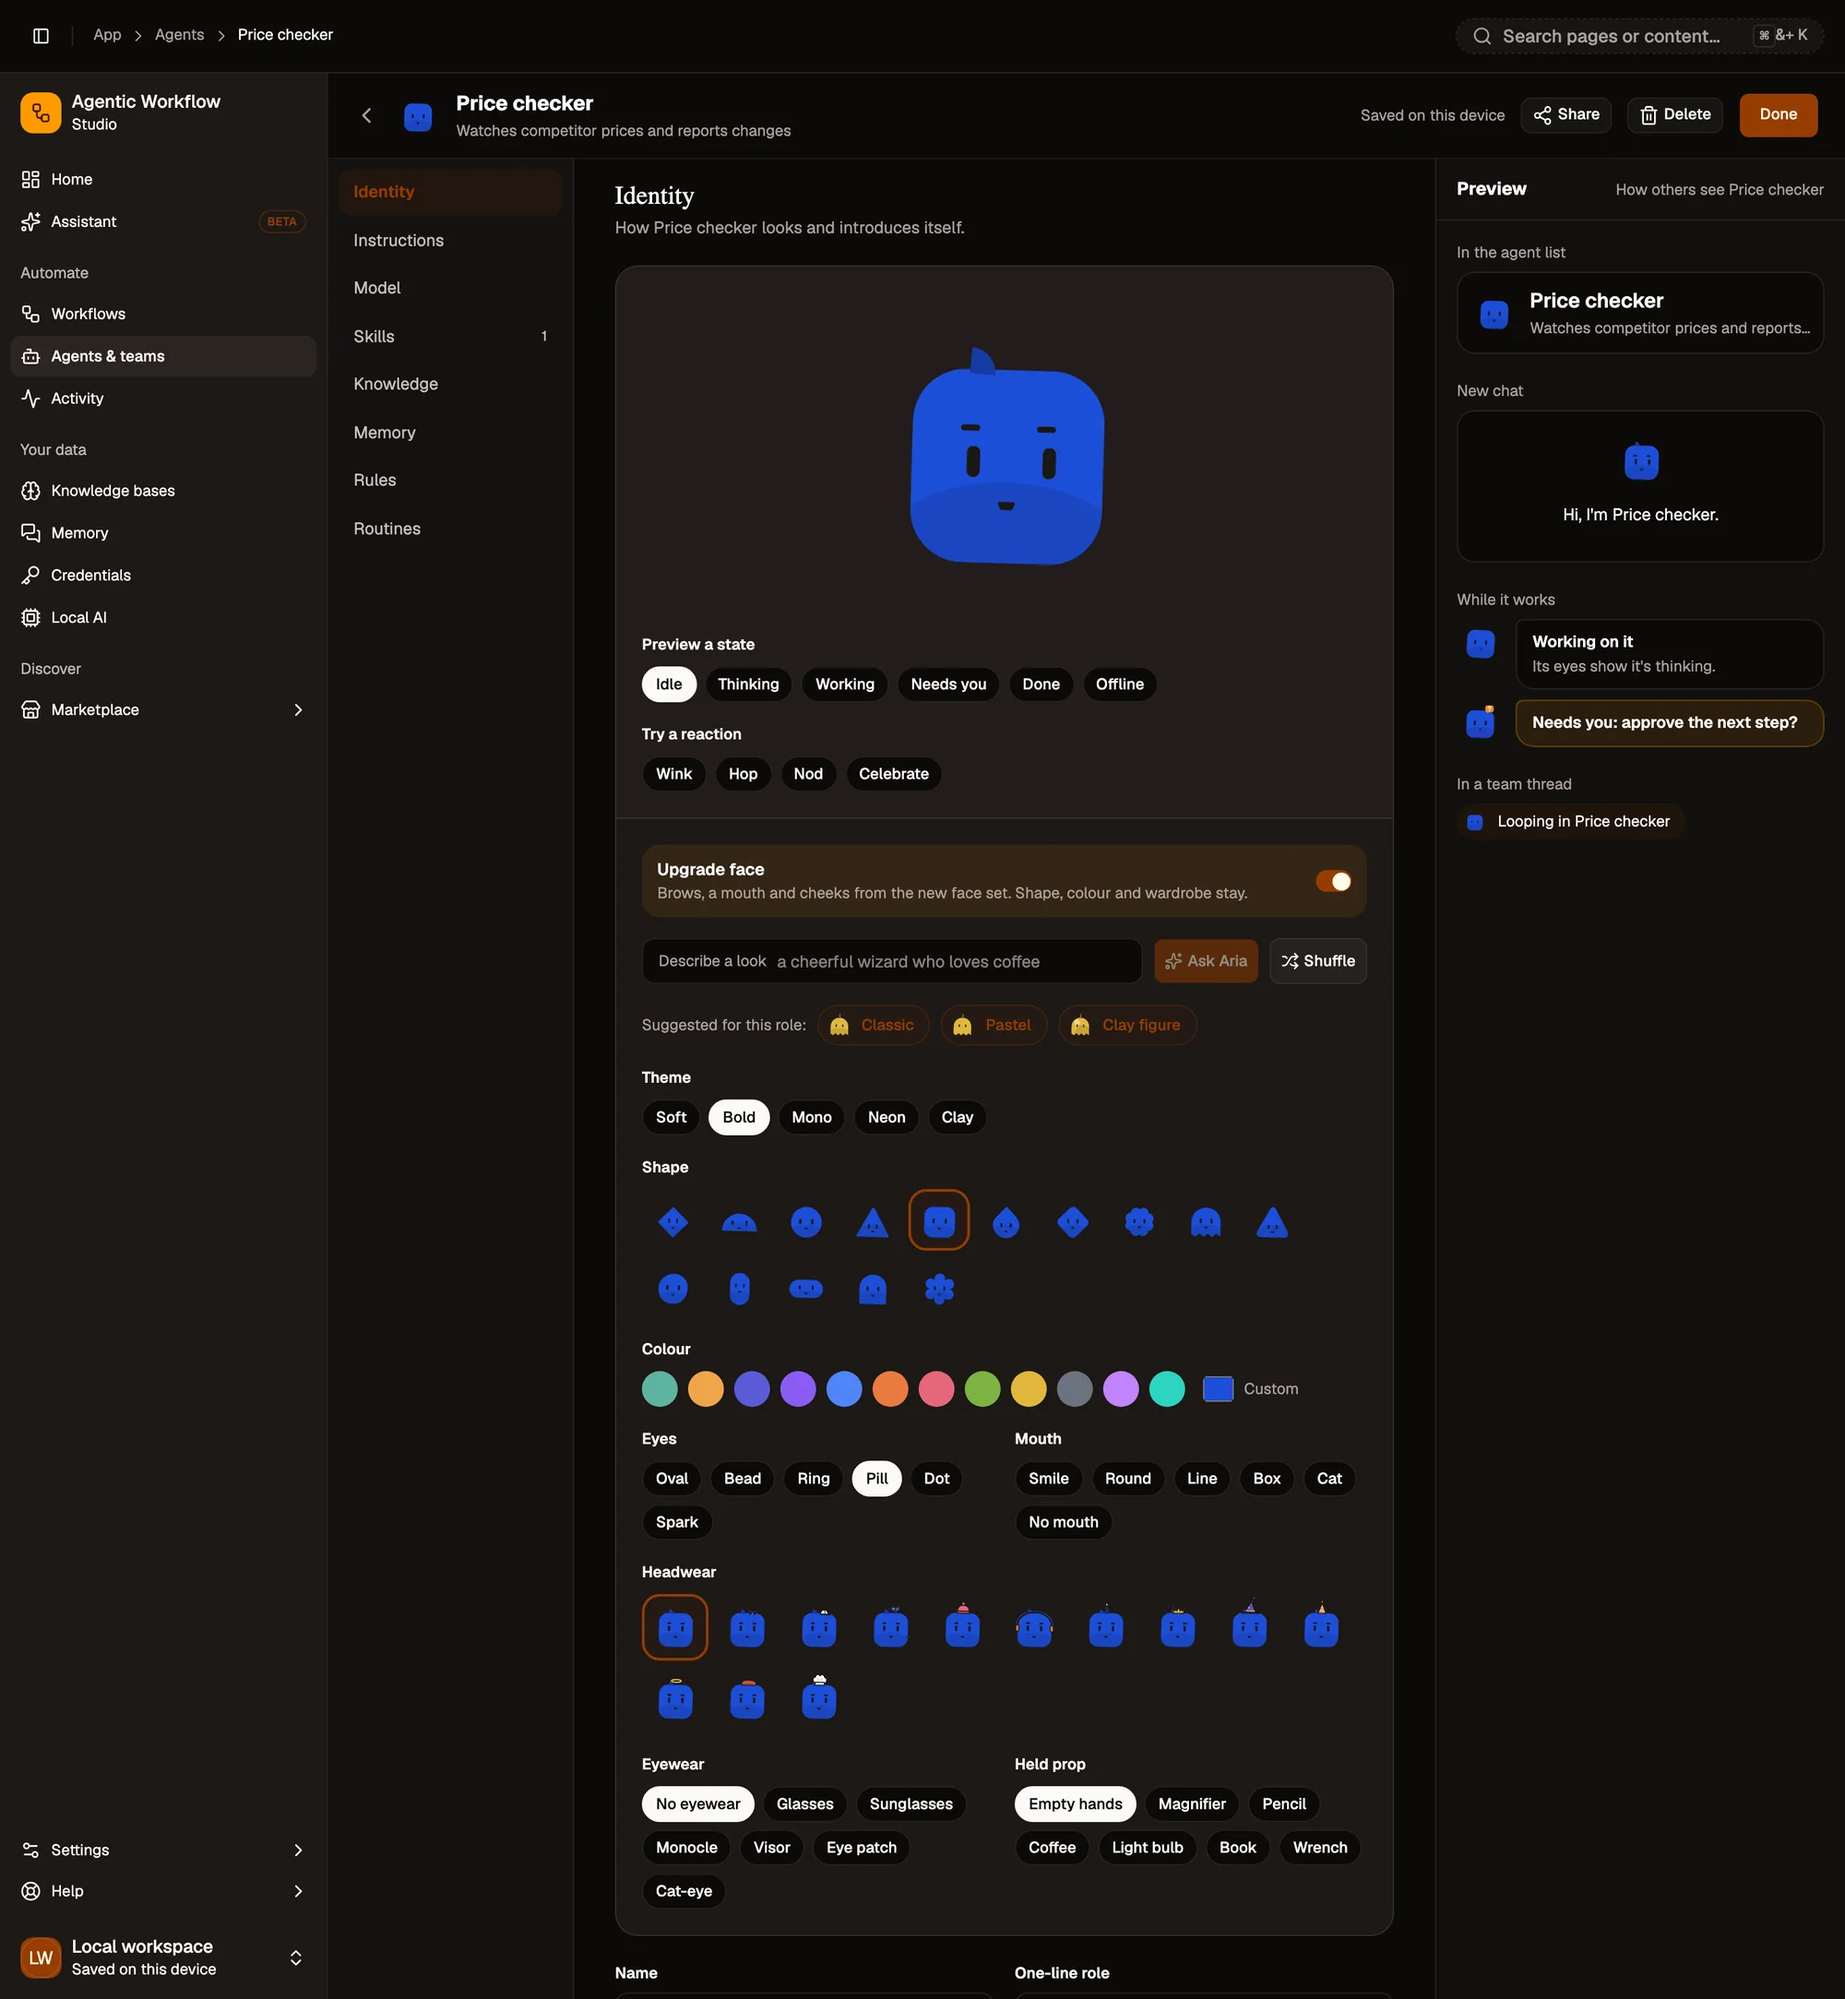
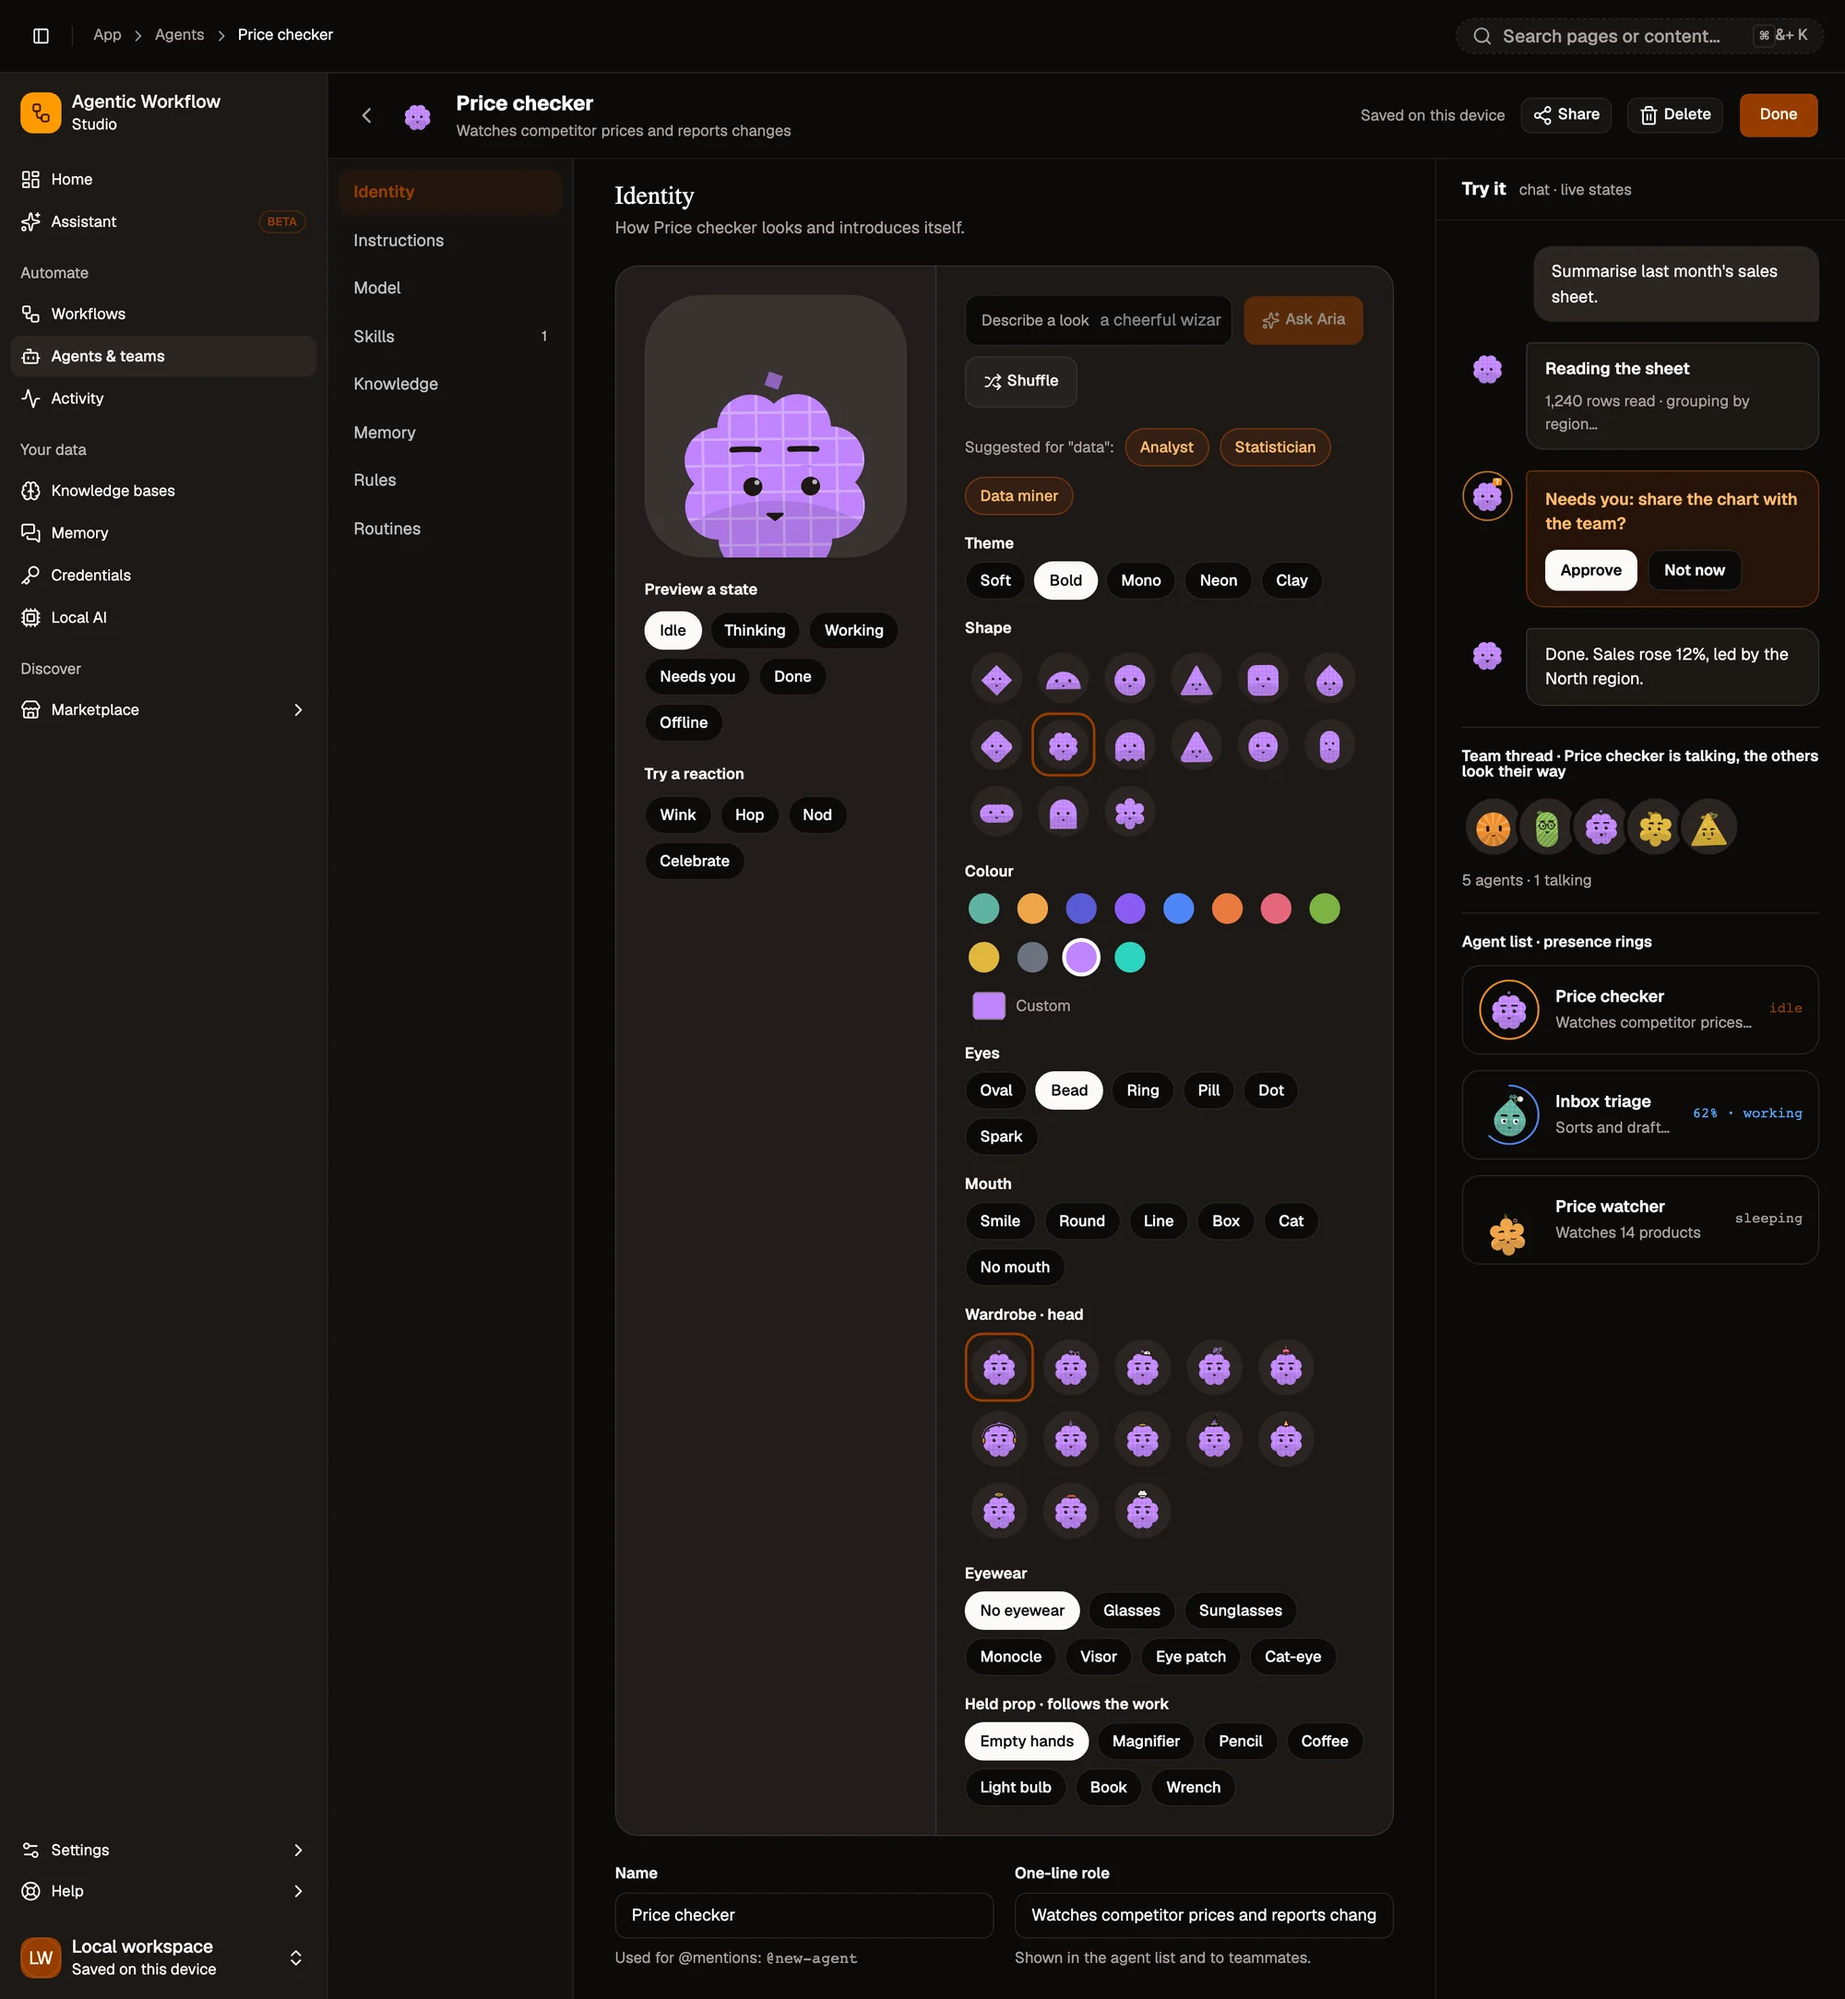
docs(agents): update look studio docs and screenshots for the Identity redesign

diff --git a/scripts/capture/shots/ai.ts b/scripts/capture/shots/ai.ts
@@ -49,7 +49,9 @@ async function agentBuilder(s: Session, tab: string) {
 		await p.waitForTimeout(800);
 		await name.fill('Price checker');
 		await name.press('Tab');
-		await p.getByText(/Hi, I.m Price checker/).filter({ visible: true }).first().waitFor({ timeout: T });
+		// The name shows in the header and the Try it rail's chat/list once saved.
+		await p.getByText('Price checker', { exact: true }).filter({ visible: true }).first().waitFor({ timeout: T });
+		await p.waitForTimeout(500);
 		const role = p.getByRole('textbox', { name: /^One-line role/ });
 		await role.fill('Watches competitor prices and reports changes');
 		await role.press('Tab');
@@ -566,7 +568,7 @@ export const shots: ShotDef[] = [
 		name: 'agent-identity',
 		page: 'app/chat-and-agents/agent-builder',
 		route: '#/app/agents/<id>',
-		alt: "The Identity tab of the agent builder for a new agent, Price checker: the end of the look studio (headwear, eyewear and held prop) above the Name, One-line role, Greeting and Conversation starters fields, with the builder tabs on the left and a preview of the agent in the list, a new chat and a team thread on the right.",
+		alt: "The Identity tab of the agent builder for a new agent, Price checker: the end of the look studio (headwear, eyewear and held prop) above the Name, One-line role, Greeting and Conversation starters fields, with the builder tabs on the left and the Try it rail on the right.",
 		note: 'The agent is created with Blank agent during capture and stays in the session.',
 		spots: [
 			{ id: 'tabs', label: 'Builder tabs', locator: btn(/^Identity/) },
@@ -585,22 +587,24 @@ export const shots: ShotDef[] = [
 		name: 'agent-look',
 		page: 'app/chat-and-agents/agent-builder',
 		route: '#/app/agents/<id>',
-		alt: 'The look studio at the top of the Identity tab for Price checker, a blue square character. On the left, the large preview with Preview a state chips (Idle, Thinking, Working, Needs you, Done, Offline) and Try a reaction buttons (Wink, Hop, Nod, Celebrate). On the right, the Upgrade face switch (on), Describe a look with Ask Aria and Shuffle, looks suggested for the role (Classic, Pastel, Clay figure), then Theme, Shape, Colour, Eyes, Mouth, Headwear, Eyewear and Held prop pickers.',
-		note: 'The look studio at the top of the Identity tab, for the Price checker agent made with Blank agent. A taller viewport fits the whole studio.',
+		alt: 'The Identity tab of the agent builder for Price checker, a blue square character. In the middle, the look studio: on the left a sticky preview with Preview a state chips (Idle, Thinking, Working, Needs you, Done, Offline) and Try a reaction buttons (Wink, Hop, Nod, Celebrate); on the right Describe a look with Ask Aria and Shuffle, role-named suggested looks, then Theme, Shape, Colour, Eyes, Mouth, Wardrobe · head, Eyewear and Held prop · follows the work pickers. In the right rail, Try it · chat · live states shows an example chat with the agent working, needing you and done, a team thread where the others look at the talking agent, and the agent list with presence rings.',
+		note: 'The Identity tab for the Price checker agent made with Blank agent: look studio plus the Try it rail. A taller viewport fits the whole studio. The Upgrade face switch only shows for agents made before the new faces, so it is not in this shot.',
 		viewport: { width: 1440, height: 1560 },
 		spots: [
-			{ id: 'upgrade-face', label: 'Upgrade face', locator: (p) => p.getByRole('switch', { name: 'Upgrade face' }) },
 			{ id: 'preview', label: 'Preview a state', locator: (p) => p.getByRole('radiogroup', { name: 'Preview a state' }) },
 			{ id: 'reactions', label: 'Try a reaction', locator: btn('Wink', true) },
 			{ id: 'describe', label: 'Describe a look', locator: (p) => p.getByRole('textbox', { name: /Describe a look/ }) },
 			{ id: 'shuffle', label: 'Shuffle', locator: btn(/Shuffle/) },
-			{ id: 'suggestions', label: 'Suggested for this role', locator: text('Suggested for this role:') },
+			{ id: 'suggestions', label: 'Suggested looks', locator: (p) => p.getByTestId('role-suggestions') },
 			{ id: 'theme', label: 'Theme', locator: (p) => p.getByRole('radiogroup', { name: 'Theme' }) },
 			{ id: 'shape', label: 'Shape', locator: (p) => p.getByRole('radiogroup', { name: 'Shape' }) },
 			{ id: 'colour', label: 'Colour', locator: (p) => p.getByRole('radiogroup', { name: 'Colour' }) },
 			{ id: 'face', label: 'Eyes and mouth', locator: (p) => p.getByRole('radiogroup', { name: 'Eyes' }) },
-			{ id: 'headwear', label: 'Headwear', locator: (p) => p.getByRole('radiogroup', { name: 'Headwear' }) },
-			{ id: 'eyewear-prop', label: 'Eyewear and held prop', locator: (p) => p.getByRole('radiogroup', { name: 'Eyewear' }) }
+			{ id: 'headwear', label: 'Wardrobe · head', locator: (p) => p.getByRole('radiogroup', { name: 'Headwear' }) },
+			{ id: 'eyewear-prop', label: 'Eyewear and held prop', locator: (p) => p.getByRole('radiogroup', { name: 'Eyewear' }) },
+			{ id: 'try-chat', label: 'Example chat', locator: (p) => p.getByRole('region', { name: 'Example chat' }) },
+			{ id: 'try-team', label: 'Team thread', locator: (p) => p.getByRole('region', { name: /^Team thread/ }) },
+			{ id: 'try-list', label: 'Agent list', locator: (p) => p.getByRole('region', { name: /^Agent list/ }) }
 		],
 		prepare: async (s) => {
 			await closeOverlays(s);
@@ -608,11 +612,6 @@ export const shots: ShotDef[] = [
 			await s.page.goto('about:blank');
 			await agentBuilder(s, 'Identity');
 			await s.page.getByRole('radiogroup', { name: 'Preview a state' }).waitFor({ timeout: T });
-			// A blank agent starts with the new face, so "Upgrade face" is only offered for an
-			// agent made before the new faces (re-capture that spot with one). When the switch
-			// is there, turn it on so it stays on screen.
-			const upgrade = s.page.getByRole('switch', { name: 'Upgrade face' });
-			if ((await upgrade.count()) && (await upgrade.getAttribute('aria-checked')) !== 'true') await upgrade.click({ timeout: T });
 			await scrollPane(s.page.getByRole('heading', { name: 'Identity' }).first(), 'start');
 			await s.page.waitForTimeout(800);
 		}
